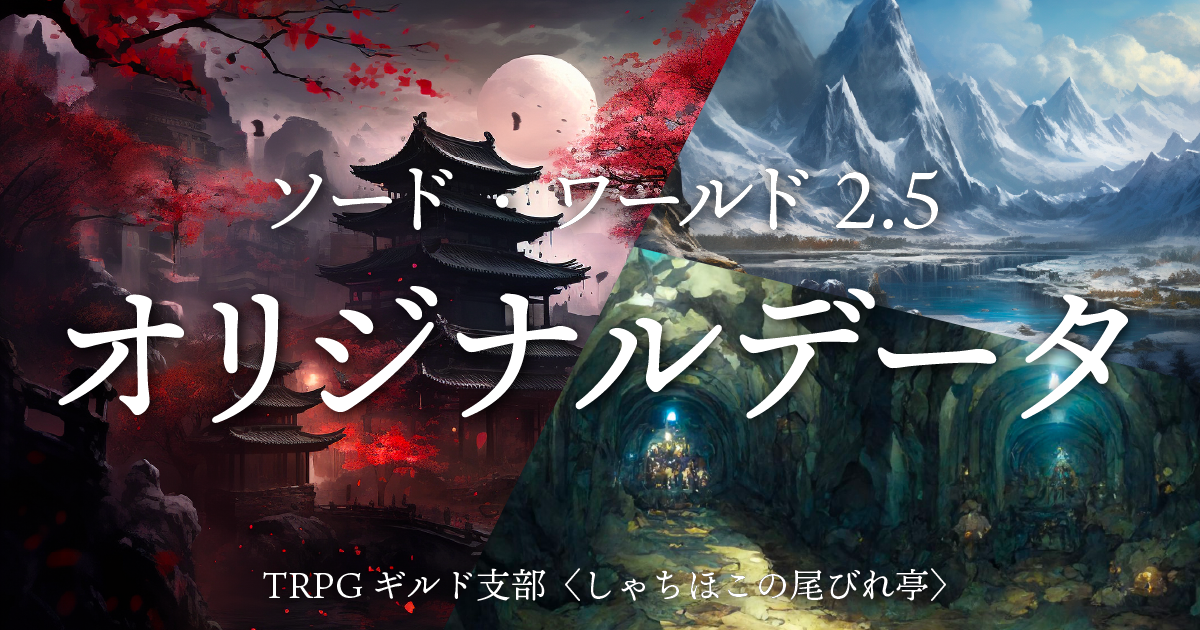
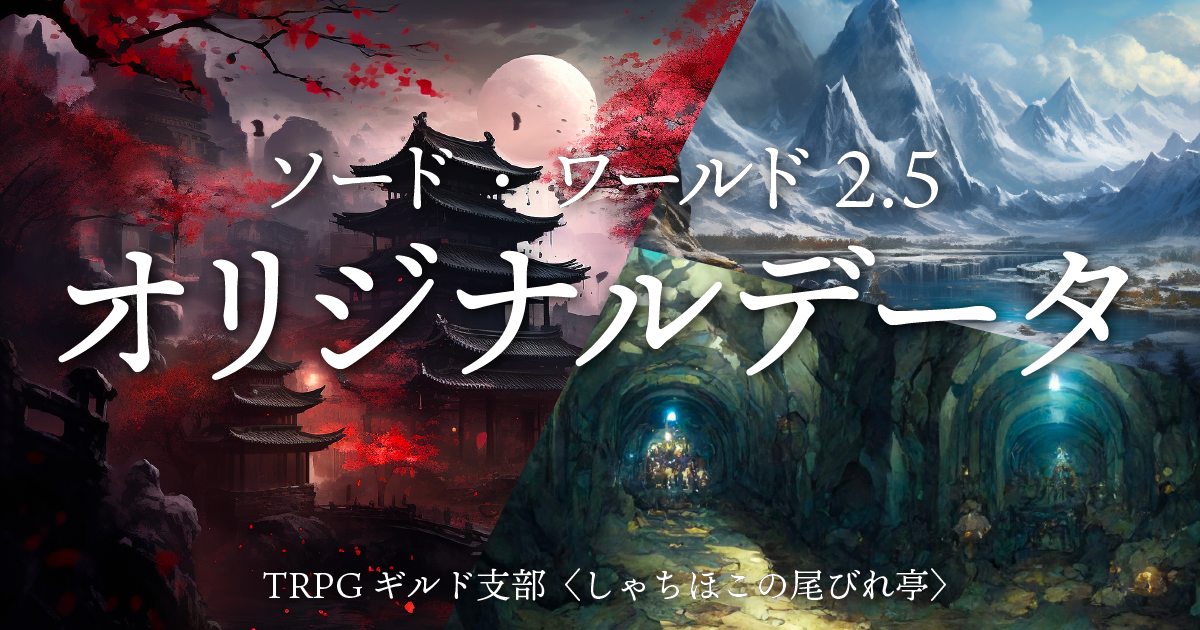
search pageにサムネ画像を追加

diff --git a/pages/index.vue b/pages/index.vue
@@ -148,7 +148,7 @@ ${$pageSettingList.filter(page => !page.hidden && page.to.indexOf('/blog/') === 
 &&noandml
 This site also has a variety of other TRPG-related contents!
 &&&
-&button_/search? ページ一覧はこちら
+&button_/search
 `
 
 const andml4 = `

diff --git a/src/pages/pageSettingList.ts b/src/pages/pageSettingList.ts
@@ -418,6 +418,7 @@ const normalPageSettingList: PageSetting[] = [
   {
     title: "検索・ページ一覧",
     to: "/search",
+    img: "page-image/search.webp",
     lastmod: "2023/3/28",
     specialPage: true,
     explain:
